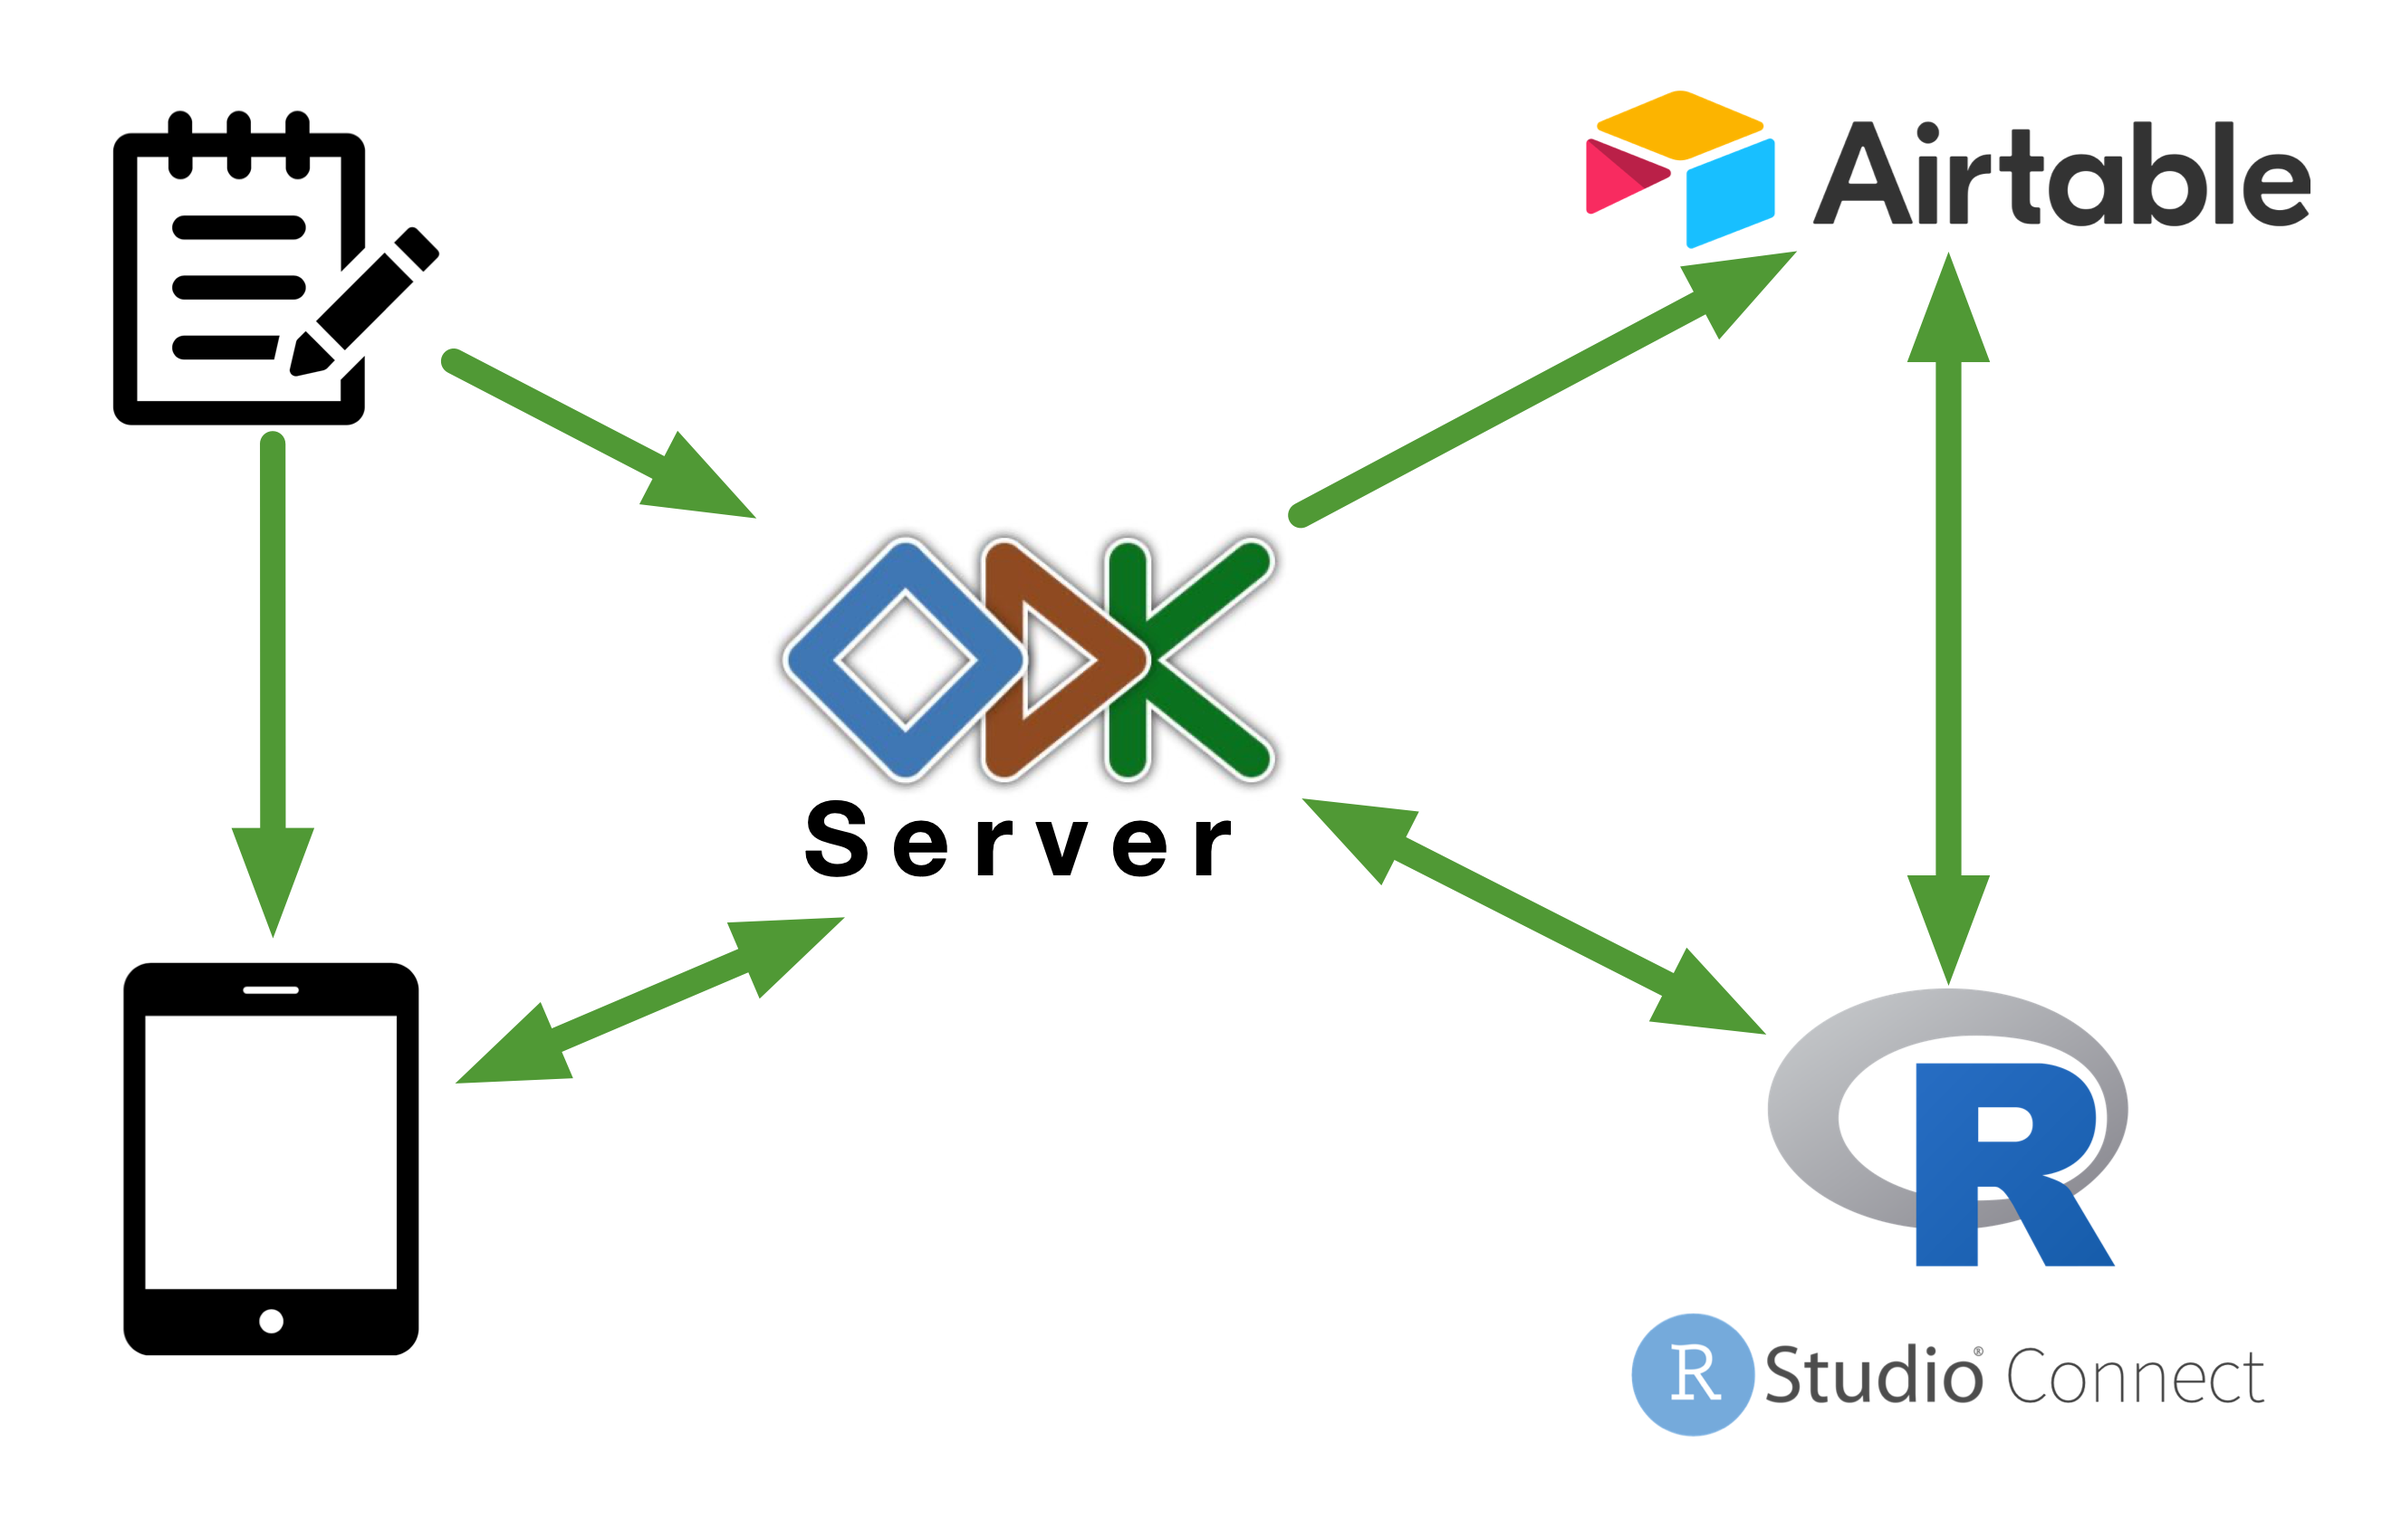
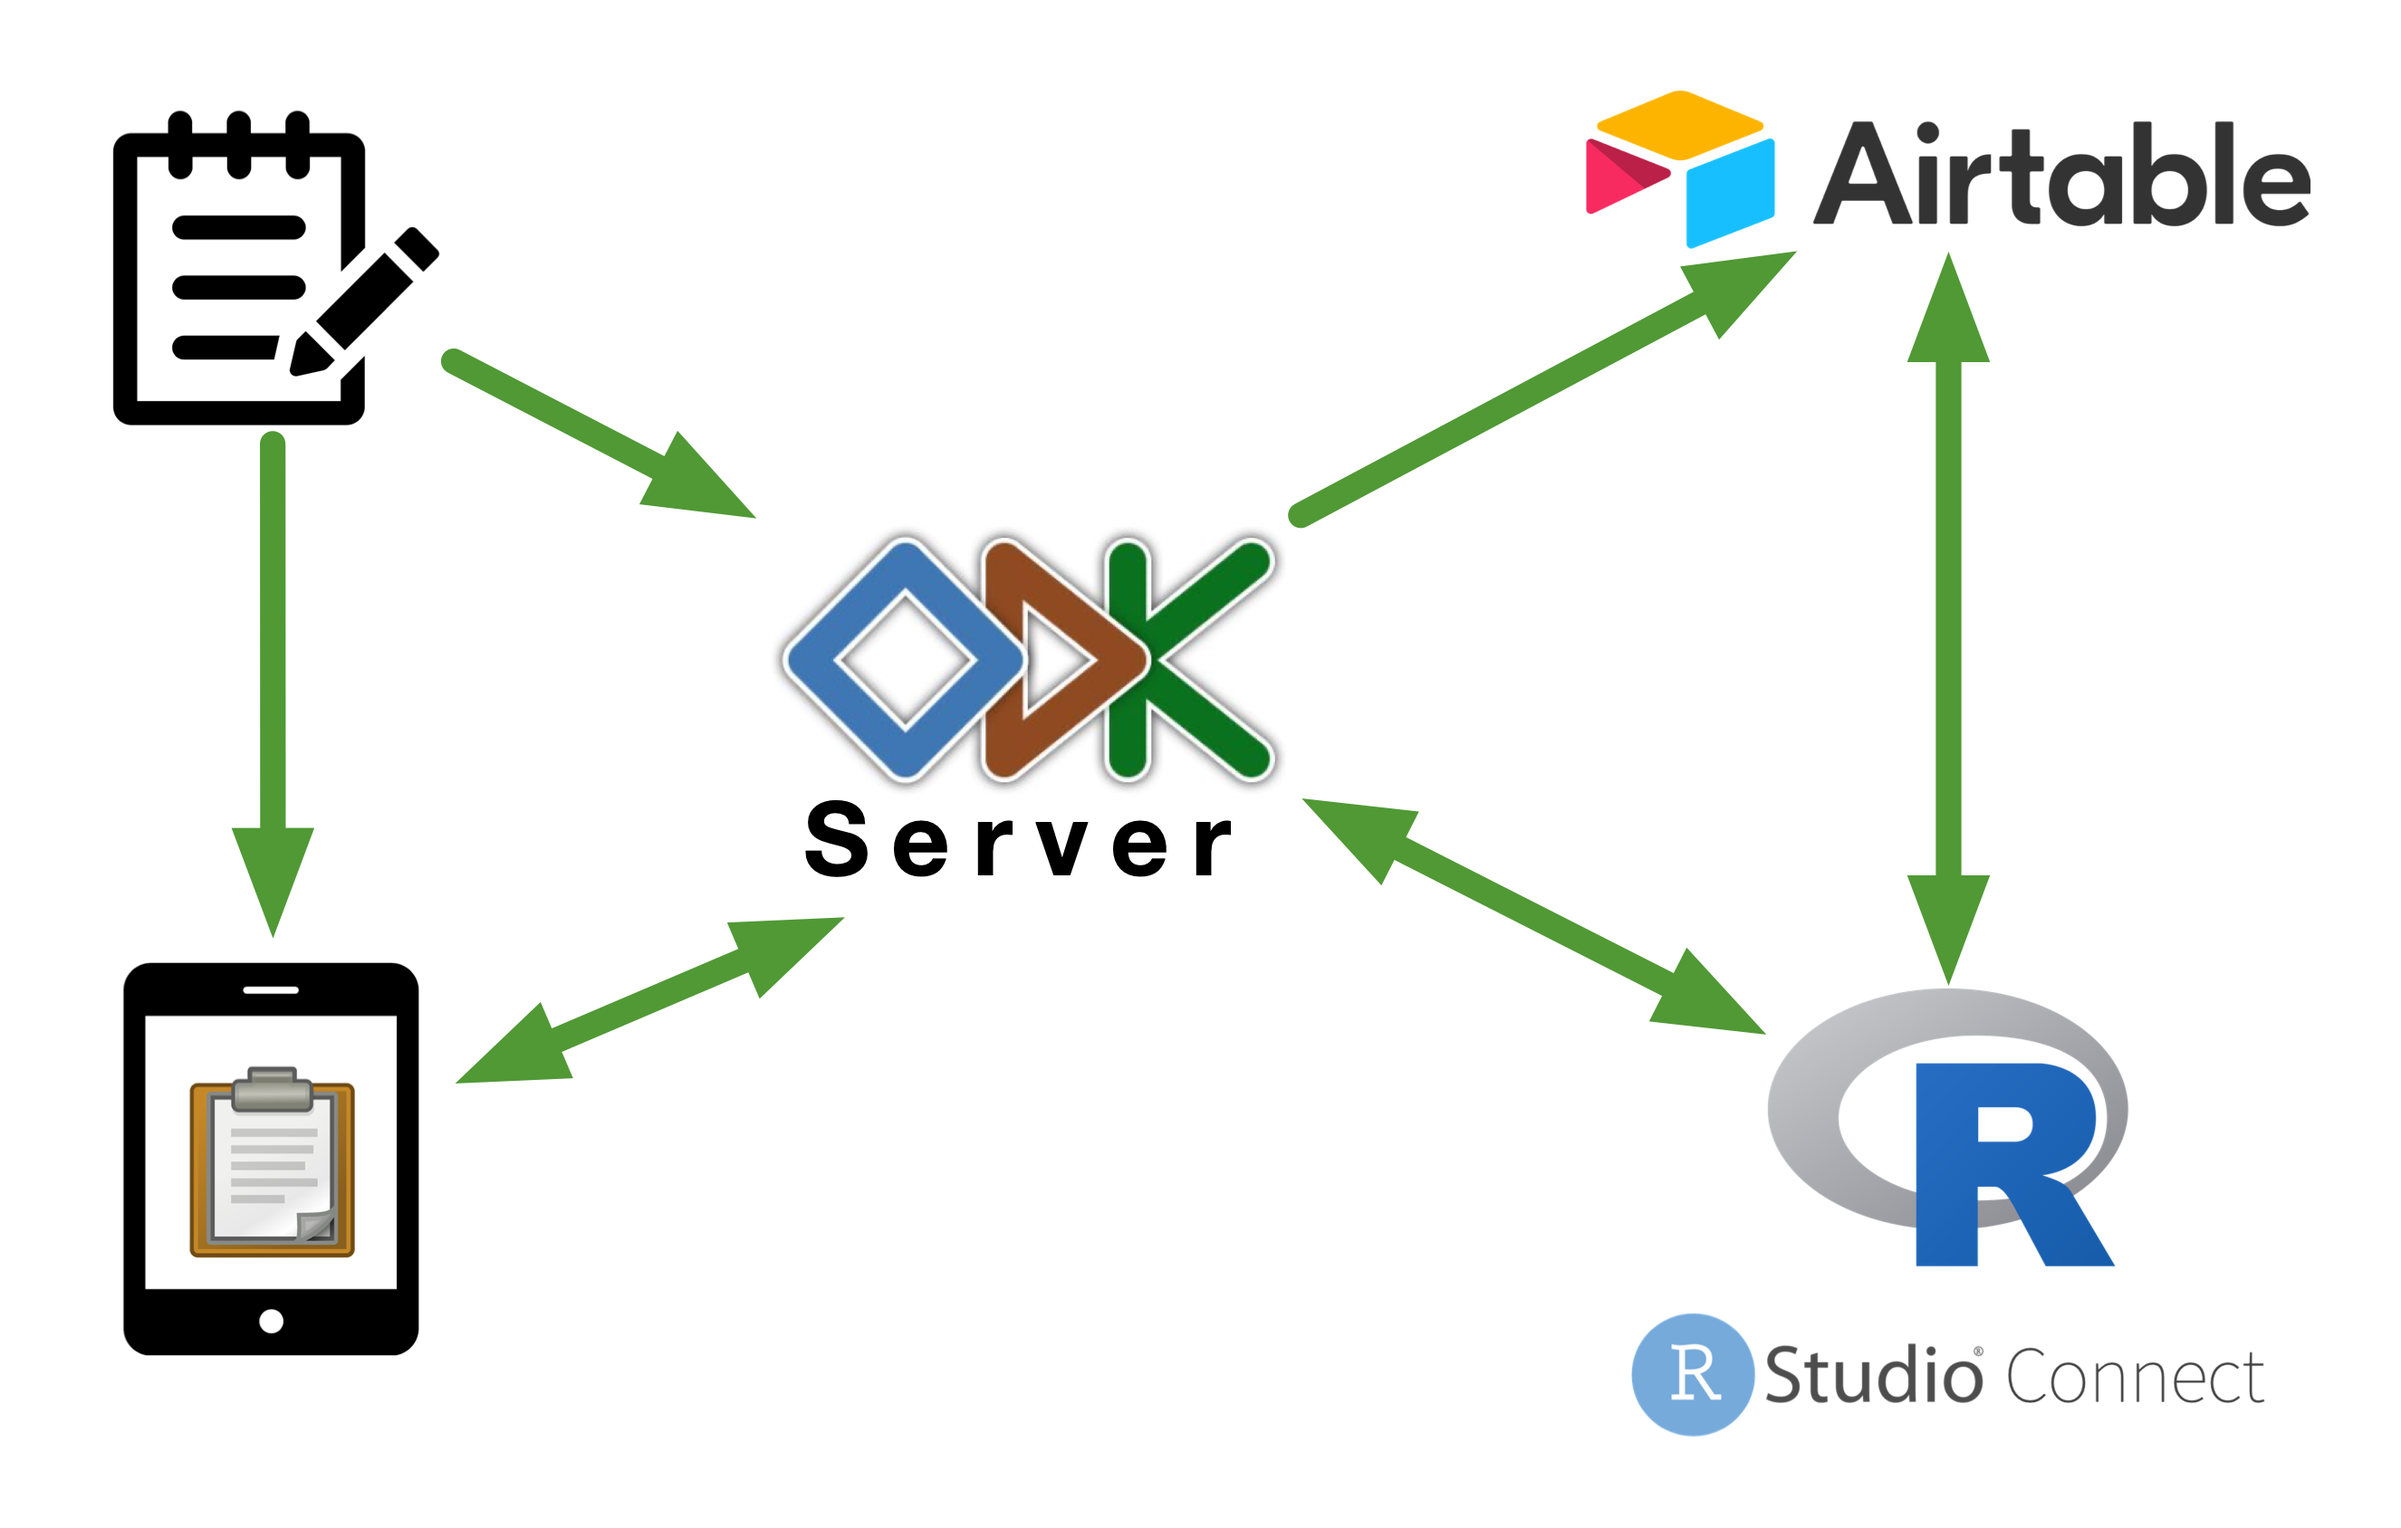
add ODK collect in graphics

Changed region(s): [[0.0619, 0.6777, 0.1547, 0.8318]]

diff --git a/index.html b/index.html
@@ -46,7 +46,7 @@ background-color: #FFFFFF
 background-image: url()
 background-color: #FFFFFF
 
-## ODK within EcoHealth Alliance
+## ODK within EcoHealth
 
 ![](images/odk_eha.png)
 
@@ -54,11 +54,9 @@ background-color: #FFFFFF
 
 ## ODK Central
 
-* **ODK Central** is the **ODK server**. 
+* **ODK Central** is the newest iteration of the **ODK server**. 
 
 * It manages user accounts and permissions, stores form definitions, and allows data collection clients like **ODK Collect** to connect to it for form download and submission upload
-
-* Newest iteration of the **ODK server**
 
 * New features and functionalities in the server software itself and via its **REST**, **OpenRosa**, and **OData** APIs
 
@@ -84,7 +82,9 @@ For this demonstration, I have created a feedback form for my talk today which w
 
 * An internet connection
 
-* If using an **Android** device, please download **ODK Collect** from the **Google Play Store**. If you do not want to download yet another app or if you are using **iOS** device or a computer, nothing to download ahead of time. You will enter data into the forms and submit via your web browser
+* If using an **Android** device, please download **ODK Collect** from the **Google Play Store**. 
+
+* If you do not want to download yet another app or if you are using **iOS** device or a computer, nothing to download ahead of time. You will enter data into the forms and submit via your web browser
     </textarea>
 <style data-target="print-only">@media screen {.remark-slide-container{display:block;}.remark-slide-scaler{box-shadow:none;}}</style>
 <script src="https://remarkjs.com/downloads/remark-latest.min.js"></script>
